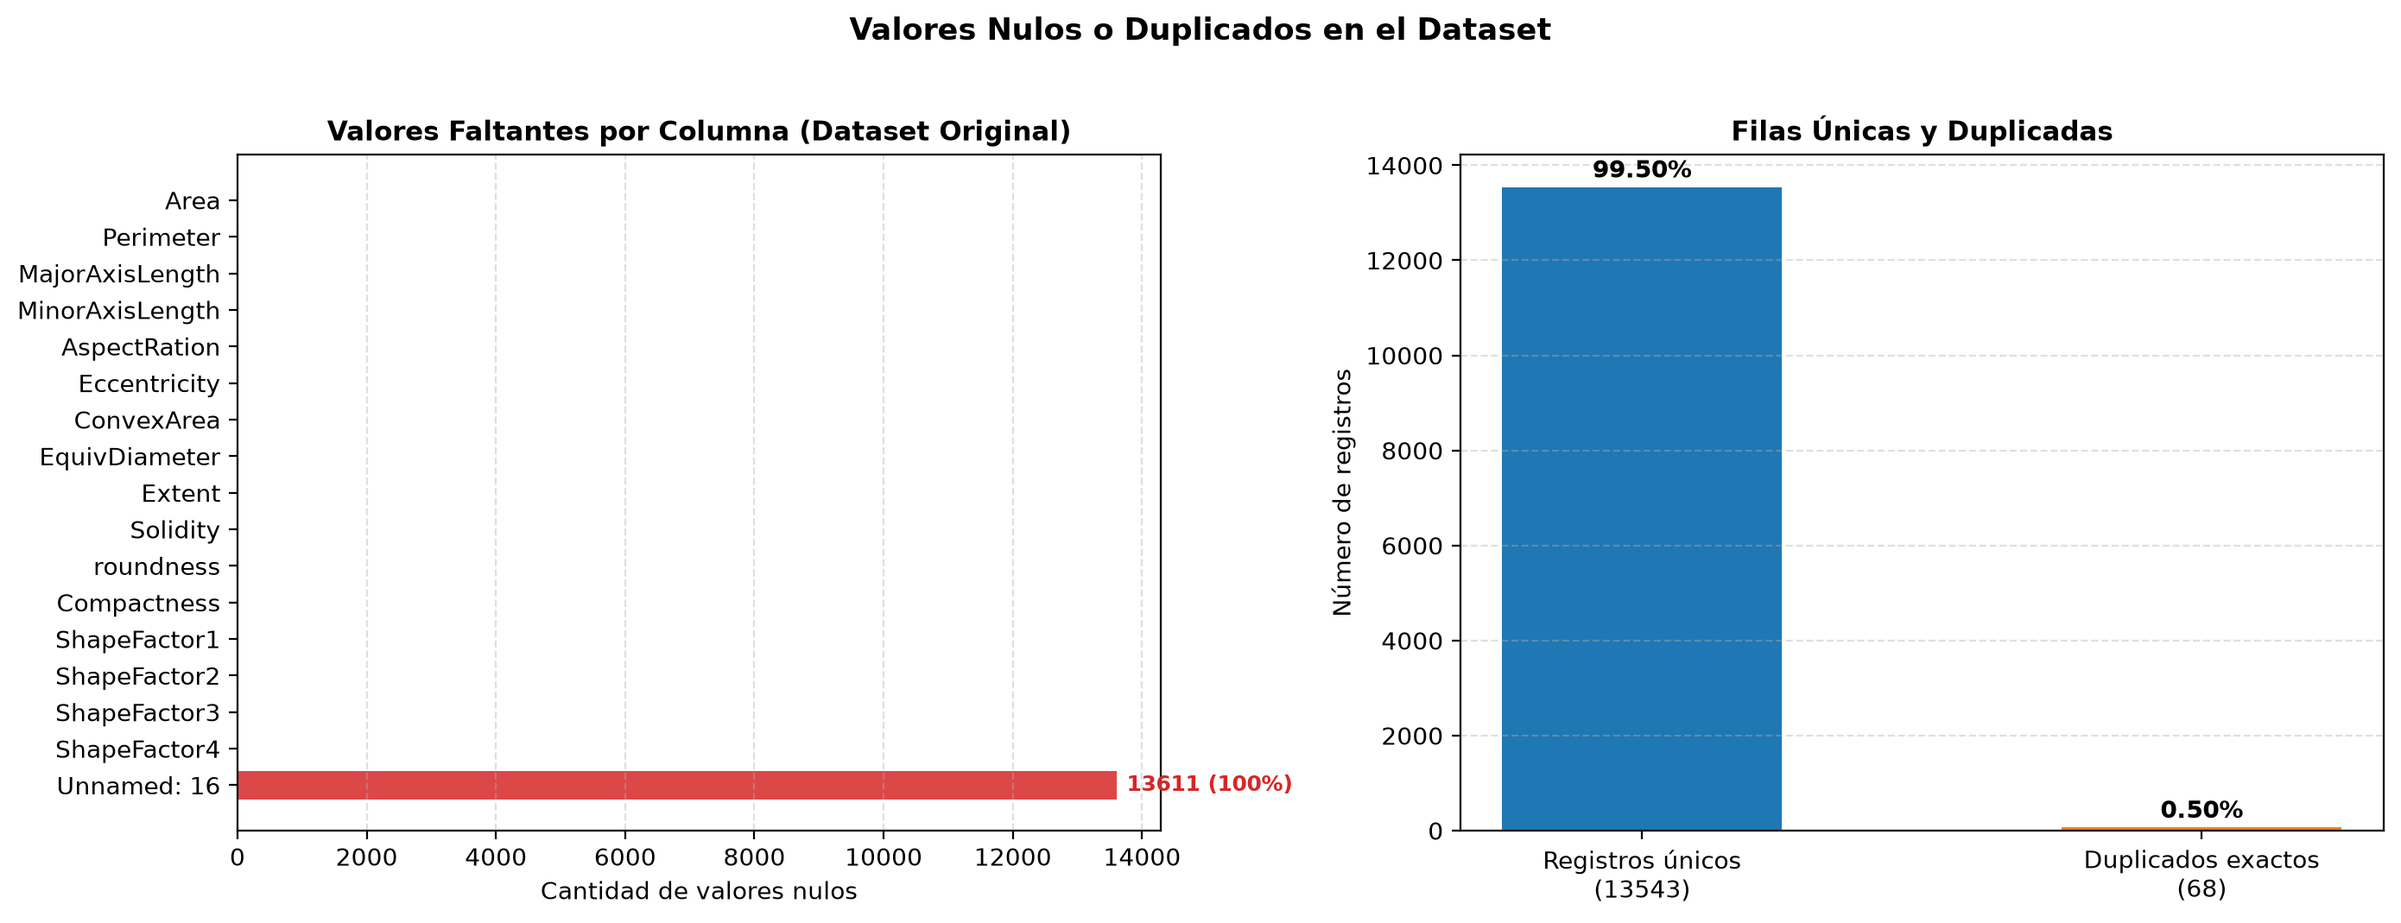
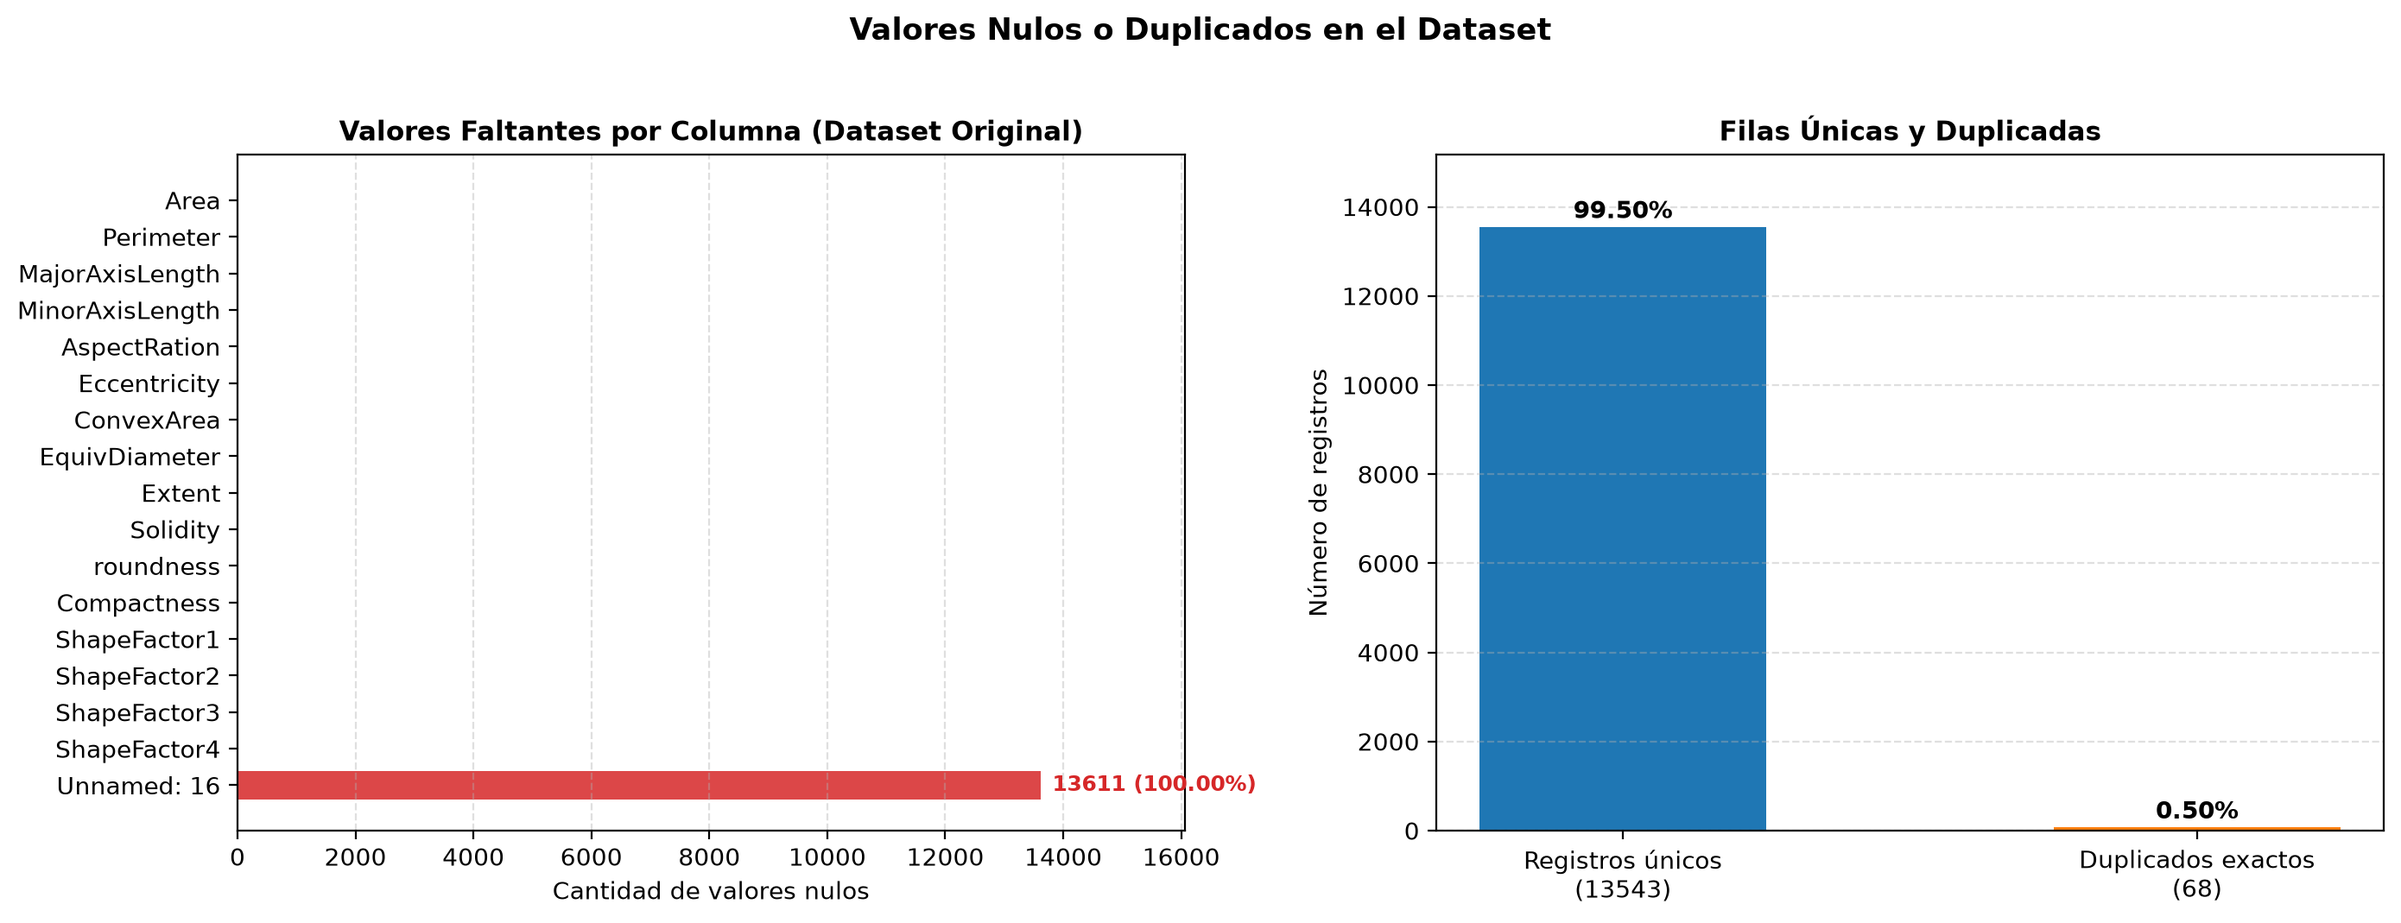
docs: actualizar RESUMEN_ANALISIS.md y limpiar analisis_datos.py

diff --git a/ANALISIS/analisis_datos.py b/ANALISIS/analisis_datos.py
@@ -26,46 +26,39 @@ def localizar_dataset(base_dir):
     raise FileNotFoundError("No se encontro el archivo Dataset.csv")
 
 
-def detectar_columnas_vacias(df, ruta_csv):
-    """Detecta dinamicamente columnas 100% vacias y verifica si provienen de una coma final en el CSV."""
-    with open(ruta_csv, "r", encoding="utf-8-sig") as f:
-        primera_linea = f.readline().rstrip("\r\n")
-    tiene_coma_final = primera_linea.endswith(",")
-
-    hallazgos = []
-    total_cols = len(df.columns)
-    for pos, col in enumerate(df.columns, start=1):
-        if df[col].isnull().all():
-            es_por_coma = tiene_coma_final and pos == total_cols and str(col).startswith("Unnamed:")
-            hallazgos.append({"pos": pos, "nombre": col, "por_coma_final": es_por_coma})
-    return hallazgos
-
-
 def graficar_calidad_datos(df_raw, df_valid, base_dir):
     """Grafica valores faltantes por columna y proporcion de registros duplicados."""
     fig, axes = plt.subplots(1, 2, figsize=(14, 5.2))
 
     nulos = df_raw.isnull().sum()
+    total_raw = max(len(df_raw), 1)
+    max_nulos = max(int(nulos.max()), 1)
+    offset_x = max_nulos * 0.015
     colores_nulos = ["#d62728" if v > 0 else "#2ca02c" for v in nulos.values]
     axes[0].barh(nulos.index, nulos.values, color=colores_nulos, alpha=0.85)
     axes[0].set_title("Valores Faltantes por Columna (Dataset Original)", fontsize=11, fontweight="bold")
     axes[0].set_xlabel("Cantidad de valores nulos")
+    axes[0].set_xlim(0, max_nulos * 1.18)
     axes[0].invert_yaxis()
     axes[0].grid(True, axis="x", linestyle="--", alpha=0.4)
     for i, v in enumerate(nulos.values):
         if v > 0:
-            pct = (v / len(df_raw)) * 100.0
-            axes[0].text(v + 150, i, f"{v} ({pct:.0f}%)", va="center", fontsize=9, fontweight="bold", color="#d62728")
+            pct = (v / total_raw) * 100.0
+            axes[0].text(v + offset_x, i, f"{v} ({pct:.2f}%)", va="center", fontsize=9, fontweight="bold", color="#d62728")
 
     duplicados = int(df_valid.duplicated().sum())
     unicos = len(df_valid) - duplicados
+    total_valid = max(len(df_valid), 1)
+    max_y = max(unicos, duplicados, 1)
+    offset_y = max_y * 0.015
     etiquetas = [f"Registros únicos\n({unicos})", f"Duplicados exactos\n({duplicados})"]
     axes[1].bar(etiquetas, [unicos, duplicados], color=["#1f77b4", "#ff7f0e"], width=0.5)
     axes[1].set_title("Filas Únicas y Duplicadas", fontsize=11, fontweight="bold")
     axes[1].set_ylabel("Número de registros")
+    axes[1].set_ylim(0, max_y * 1.12)
     axes[1].grid(True, axis="y", linestyle="--", alpha=0.4)
-    axes[1].text(0, unicos + 200, f"{unicos / len(df_valid) * 100:.2f}%", ha="center", fontweight="bold")
-    axes[1].text(1, duplicados + 200, f"{duplicados / len(df_valid) * 100:.2f}%", ha="center", fontweight="bold")
+    axes[1].text(0, unicos + offset_y, f"{unicos / total_valid * 100:.2f}%", ha="center", fontweight="bold")
+    axes[1].text(1, duplicados + offset_y, f"{duplicados / total_valid * 100:.2f}%", ha="center", fontweight="bold")
 
     plt.suptitle("Valores Nulos o Duplicados en el Dataset", fontsize=12.5, fontweight="bold", y=1.02)
     plt.tight_layout()
@@ -85,13 +78,16 @@ def formatear_valor(val):
 
 
 def graficar_histogramas(df, base_dir):
-    """Grafica histogramas de las 16 variables en su escala original mostrando media, mediana, minimo y maximo."""
+    """Grafica histogramas de las variables numericas en su escala original mostrando media, mediana, minimo y maximo."""
     cols = df.columns.tolist()
-    fig, axes = plt.subplots(4, 4, figsize=(18, 14))
-    axes = axes.flatten()
+    n_vars = len(cols)
+    n_cols = 4
+    n_rows = int(np.ceil(n_vars / n_cols))
+    fig, axes = plt.subplots(n_rows, n_cols, figsize=(18, 3.5 * n_rows))
+    axes = np.atleast_1d(axes).flatten()
 
     for idx, col in enumerate(cols):
-        serie = df[col]
+        serie = df[col].dropna()
         media = serie.mean()
         mediana = serie.median()
         minimo = serie.min()
@@ -118,13 +114,18 @@ def graficar_histogramas(df, base_dir):
         axes[idx].set_xlabel(f"{col} (valor)", fontsize=9)
         axes[idx].set_ylabel("Frecuencia (n.º de granos)", fontsize=9)
         margen = (maximo - minimo) * 0.04
+        if margen == 0:
+            margen = 0.5
         axes[idx].set_xlim(minimo - margen, maximo + margen)
         axes[idx].grid(True, linestyle="--", alpha=0.35)
         axes[idx].tick_params(labelsize=8)
         axes[idx].legend(loc="best", fontsize=7.5, framealpha=0.92, edgecolor="#cccccc", handlelength=1.8)
 
+    for j in range(n_vars, len(axes)):
+        axes[j].set_visible(False)
+
     plt.suptitle(
-        "Histogramas de las 16 Variables (Media, Mediana, Mínimo y Máximo)",
+        f"Histogramas de las {n_vars} Variables (Media, Mediana, Mínimo y Máximo)",
         fontsize=13.5,
         fontweight="bold",
         y=1.01,
@@ -155,7 +156,7 @@ def graficar_matriz_correlacion(df, base_dir):
             ax.text(j, i, f"{val:.4f}", ha="center", va="center", color=color_txt, fontsize=6.2)
 
     fig.colorbar(im, ax=ax, fraction=0.046, pad=0.04, label="Correlación de Pearson (r)")
-    ax.set_title("Matriz de Correlación de Pearson entre las 16 Variables Originales", fontsize=12, fontweight="bold", pad=12)
+    ax.set_title(f"Matriz de Correlación de Pearson entre las {len(cols)} Variables", fontsize=12, fontweight="bold", pad=12)
     plt.tight_layout()
     ruta = os.path.join(base_dir, "3_matriz_correlacion.png")
     plt.savefig(ruta, dpi=200, bbox_inches="tight")
@@ -164,7 +165,7 @@ def graficar_matriz_correlacion(df, base_dir):
 
 
 def graficar_dispersion_original(df, base_dir):
-    """Grafica dos conjuntos de diagramas de dispersion en escala original para explorar grupos y anomalias."""
+    """Grafica diagramas de dispersion en escala original para explorar grupos y anomalias."""
     pares_geometria = [
         ("Area", "Perimeter", "Tamaño y Contorno (Area vs Perimeter)"),
         ("MajorAxisLength", "MinorAxisLength", "Ejes Geométricos (Major vs Minor Axis)"),
@@ -173,15 +174,29 @@ def graficar_dispersion_original(df, base_dir):
         ("ShapeFactor1", "ShapeFactor2", "Factores de Forma (ShapeFactor1 vs ShapeFactor2)"),
         ("Solidity", "roundness", "Regularidad del Grano (Solidity vs roundness)"),
     ]
+    pares_validos = [(cx, cy, t) for cx, cy, t in pares_geometria if cx in df.columns and cy in df.columns]
+    if not pares_validos and len(df.columns) >= 2:
+        cols_disp = df.columns.tolist()
+        pares_validos = [
+            (cols_disp[i], cols_disp[i + 1], f"{cols_disp[i]} vs {cols_disp[i + 1]}")
+            for i in range(0, min(len(cols_disp) - 1, 12), 2)
+        ]
 
-    fig1, axes1 = plt.subplots(2, 3, figsize=(18, 10.5))
-    axes1 = axes1.flatten()
-    for idx, (col_x, col_y, titulo) in enumerate(pares_geometria):
+    n_pares = len(pares_validos)
+    n_cols = 3
+    n_rows = max(int(np.ceil(n_pares / n_cols)), 1)
+    fig1, axes1 = plt.subplots(n_rows, n_cols, figsize=(18, 5.25 * n_rows))
+    axes1 = np.atleast_1d(axes1).flatten()
+    for idx, (col_x, col_y, titulo) in enumerate(pares_validos):
+        r = df[col_x].corr(df[col_y])
         axes1[idx].scatter(df[col_x], df[col_y], s=8, alpha=0.35, color="#1f77b4", edgecolors="none")
-        axes1[idx].set_title(titulo, fontsize=10.5, fontweight="bold")
+        axes1[idx].set_title(f"{titulo} (r = {r:.4f})", fontsize=10.5, fontweight="bold")
         axes1[idx].set_xlabel(col_x, fontsize=9.5)
         axes1[idx].set_ylabel(col_y, fontsize=9.5)
         axes1[idx].grid(True, linestyle="--", alpha=0.4)
+
+    for j in range(n_pares, len(axes1)):
+        axes1[j].set_visible(False)
 
     plt.suptitle(
         "Diagramas de Dispersión: Tamaño, Forma y Regularidad",
@@ -198,11 +213,12 @@ def graficar_dispersion_original(df, base_dir):
 
 def graficar_pca_densidad(df, base_dir):
     """
-    Proyecta las 16 variables a 2D con PCA sin colores de clase:
+    Proyecta las variables numericas a 2D con PCA sin colores de clase:
     Panel izquierdo: dispersion monocroma con alpha bajo para ver la forma de la nube.
     Panel derecho: mapa de densidad hexbin en escala de grises para ver donde se acumulan los puntos.
     """
-    X_norm = StandardScaler().fit_transform(df)
+    X_clean = df.dropna()
+    X_norm = StandardScaler().fit_transform(X_clean)
     pca = PCA(n_components=2, random_state=42)
     X_pca = pca.fit_transform(X_norm)
     var_pc1 = pca.explained_variance_ratio_[0] * 100.0
@@ -244,15 +260,12 @@ def main():
 
     print("ANALISIS EXPLORATORIO DEL DATASET ORIGINAL (SIN MODIFICAR DATOS)\n")
 
-    # 1. Carga original y deteccion dinamica de columnas vacias
+    # 1. Carga original y revision de columnas/nulos
     df_raw = pd.read_csv(ruta_csv)
     print(f"[1] Dimensiones originales: {df_raw.shape[0]} filas x {df_raw.shape[1]} columnas.")
-    hallazgos_vacias = detectar_columnas_vacias(df_raw, ruta_csv)
-    for h in hallazgos_vacias:
-        if h["por_coma_final"]:
-            print(f"    Aviso: Se detecto una coma al final del encabezado que genera la columna {h['pos']} ({h['nombre']}) completamente vacia; se eliminara en el preprocesamiento.")
-        else:
-            print(f"    Aviso: Se detecto la columna {h['pos']} ({h['nombre']}) completamente vacia; se eliminara en el preprocesamiento.")
+    cols_vacias = [col for col in df_raw.columns if df_raw[col].isnull().all()]
+    if cols_vacias:
+        print(f"    Aviso: Columnas 100% vacias detectadas: {', '.join(cols_vacias)} (se ignoraran en calculos y se eliminaran en el preprocesamiento).")
     print("    Tipos de datos detectados:")
     for col, dtype in df_raw.dtypes.items():
         nulos = int(df_raw[col].isnull().sum())
@@ -261,27 +274,38 @@ def main():
     # Separar vista solo con columnas no vacias para analizar estadisticas (sin alterar el archivo original)
     df_valid = df_raw.dropna(axis=1, how="all")
     num_duplicados = int(df_valid.duplicated().sum())
-    print(f"\n[2] Calidad de registros (sobre las {df_valid.shape[1]} columnas validas):")
+    print(f"\n[2] Calidad de registros (sobre las {df_valid.shape[1]} columnas no vacias):")
     print(f"    Registros totales:   {len(df_valid)}")
     print(f"    Registros unicos:    {len(df_valid) - num_duplicados}")
     print(f"    Duplicados exactos:  {num_duplicados}")
 
+    df_num = df_valid.select_dtypes(include=[np.number])
+    cols_no_num = [col for col in df_valid.columns if col not in df_num.columns]
+    if cols_no_num:
+        print(f"    Columnas no numericas excluidas del analisis estadistico: {', '.join(cols_no_num)}")
+
     # 3. Estadisticas descriptivas en escala original
     print("\n[3] Estadisticas descriptivas en escala original:")
     resumen = pd.DataFrame({
-        "Min": df_valid.min(),
-        "Mediana": df_valid.median(),
-        "Media": df_valid.mean(),
-        "Max": df_valid.max(),
-        "Std": df_valid.std(),
-        "Varianza": df_valid.var(),
-        "Extremos_|Z|>3": ((df_valid - df_valid.mean()).abs() > 3 * df_valid.std()).sum(),
+        "Min": df_num.min(),
+        "Mediana": df_num.median(),
+        "Media": df_num.mean(),
+        "Max": df_num.max(),
+        "Std": df_num.std(),
+        "Varianza": df_num.var(),
+        "Extremos_|Z|>3": ((df_num - df_num.mean()).abs() > 3 * df_num.std()).sum(),
     })
     print(resumen.round(4).to_string())
 
+    cols_var_cero = df_num.columns[df_num.var() == 0].tolist()
+    if cols_var_cero:
+        print(f"    Aviso: Variables con varianza cero: {', '.join(cols_var_cero)}")
+    else:
+        print("    Verificacion de varianza: ninguna variable tiene varianza cero.")
+
     # 4. Pares con correlacion muy alta (|r| > 0.95)
     print("\n[4] Pares de variables con correlacion lineal muy alta (|r| > 0.95):")
-    corr = df_valid.corr()
+    corr = df_num.corr()
     cols = corr.columns.tolist()
     for i in range(len(cols)):
         for j in range(i + 1, len(cols)):
@@ -293,10 +317,10 @@ def main():
     print("\n[5] Generando graficas de analisis exploratorio:")
     rutas = [
         graficar_calidad_datos(df_raw, df_valid, base_dir),
-        graficar_histogramas(df_valid, base_dir),
-        graficar_matriz_correlacion(df_valid, base_dir),
-        graficar_dispersion_original(df_valid, base_dir),
-        graficar_pca_densidad(df_valid, base_dir),
+        graficar_histogramas(df_num, base_dir),
+        graficar_matriz_correlacion(df_num, base_dir),
+        graficar_dispersion_original(df_num, base_dir),
+        graficar_pca_densidad(df_num, base_dir),
     ]
     for r in rutas:
         print(f"    Guardada: {r}")

diff --git a/ANALISIS/RESUMEN_ANALISIS.md b/ANALISIS/RESUMEN_ANALISIS.md
@@ -1,10 +1,10 @@
 # Análisis Exploratorio del Dataset (`Dataset.csv`)
 
-En esta etapa revisamos el archivo original **sin modificar ni borrar ningún dato**, y sin usar *boxplots*. El objetivo es entender qué contiene el dataset, detectar problemas de calidad y justificar de forma sencilla qué pasos se harán después en el preprocesamiento.
+En esta etapa realizamos una inspección inicial del archivo `Dataset.csv` con el objetivo de entender qué contienen los datos, detectar problemas de calidad y justificar los pasos a seguir en el preprocesamiento.
 
 ---
 
-## Descripción Original del Conjunto de Datos (`Dataset.txt`)
+## Traducción al español de la descripción original (`Dataset.txt`)
 
 - **Nombre del conjunto de datos:** `Dataset`
 - **Resumen:** 13,611 granos. Se obtuvieron un total de 16 características a partir de los granos: 12 dimensiones y 4 formas.
@@ -46,7 +46,7 @@ En esta etapa revisamos el archivo original **sin modificar ni borrar ningún da
 **¿Qué se encontró?**
 - El archivo tiene **`13,611` filas** y **`17` columnas**.
 - Las **`16` variables reales del grano** (`Area` hasta `ShapeFactor4`) están completas (**`0` valores nulos**) y todas son numéricas.
-- Aparece automáticamente una columna extra llamada **`Unnamed: 16`** con **`13,611` valores nulos (`100%` vacía)** por una coma al final de cada línea del CSV (es el lugar donde iba la clase). Esto confirma que el problema es de **Aprendizaje No Supervisado**.
+- Aparece automáticamente una columna extra llamada **`Unnamed: 16`** con **`13,611` valores nulos (`100%` vacía)** generada por una coma al final de cada línea en el archivo CSV.
 - Hay **`68` filas duplicadas exactas (`0.50%`)** y **`13,543` filas únicas (`99.50%`)**.
 
 ---
@@ -90,6 +90,12 @@ En esta etapa revisamos el archivo original **sin modificar ni borrar ningún da
 
 **¿Para qué sirve esta gráfica?** Para cruzar pares de variables en 2D y ver si los granos forman grupos separados o si hay puntos sueltos raros (posible ruido). Se eligieron pares que aportan información distinta en lugar de pares redundantes.
 
+**¿Qué significa el valor de "$r$" en el título de cada gráfica?**
+La letra **`r`** es el **coeficiente de correlación lineal de Pearson**, un número entre `-1.0` y `+1.0` que mide la relación entre las dos variables:
+- **Si $r$ es cercana a `+1`** (como en *Area vs Perimeter*, donde $r = 0.9667$): ambas variables aumentan juntas de forma proporcional y los puntos se alinean en una diagonal alargada.
+- **Si $r$ es moderada o baja** (como en *ShapeFactor1 vs ShapeFactor2*, donde $r = 0.4692$): las variables no dependen rígidamente una de la otra. Esto es muy útil porque **"abre" la nube de puntos en el plano**, permitiendo apreciar la separación real entre distintos tipos de granos, islas y vacíos que quedarían ocultos si solo graficáramos variables casi idénticas.
+- **Si $r$ fuera negativa** (cercana a `-1`): significaría que al aumentar una variable, la otra disminuye.
+
 **¿Qué se encontró?**
 - **`Area vs Perimeter` y `MajorAxisLength vs MinorAxisLength`:** Separan claramente la nube principal de granos pequeños/medianos del grupo de granos muy grandes, con algunos puntos sueltos entre ambos.
 - **`Area vs Compactness` y `Area vs roundness`:** Dejan ver varios grupos densos naturales al combinar tamaño con forma.
@@ -98,19 +104,26 @@ En esta etapa revisamos el archivo original **sin modificar ni borrar ningún da
 
 ---
 
-## 5. Proyección PCA 2D sin Etiquetas: Forma de la Nube y Densidad (`6_pca_2d_densidad.png`)
+## 5. Proyección PCA 2D: Forma de la Nube y Densidad (`6_pca_2d_densidad.png`)
 
-![Proyección PCA 2D sin etiquetas con alpha bajo y hexbin](6_pca_2d_densidad.png)
+![Proyección PCA 2D con alpha bajo y hexbin](6_pca_2d_densidad.png)
 
-**¿Para qué sirve esta gráfica?** Como no podemos dibujar 16 dimensiones a la vez, se usa **PCA solo como cámara visual** para proyectar las 16 variables a 2 ejes (`PC1 = 55.47%` y `PC2 = 26.43%`, conservando el **`81.90%`** de la información) sin usar colores de clase. El dataset **no se reduce**: esta proyección es únicamente para mirar la nube completa.
+### ¿Por qué se hizo esta proyección? (El problema de las 16 dimensiones)
+Cada grano tiene **16 características numéricas**. En una pantalla solo podemos ver gráficas en dos dimensiones (ejes X e Y), y si graficamos pares de variables individuales (como en los diagramas de dispersión anteriores), siempre estamos ignorando las otras 14 variables al mismo tiempo.
 
-- **Panel izquierdo (Alpha bajo):** Cada punto es casi transparente; donde se ve más oscuro es donde se enciman más granos. Muestra la **forma de la nube**.
-- **Panel derecho (Hexbin):** Cuenta cuántos granos caen en cada hexágono. Muestra **dónde hay mayor densidad**.
+Para solucionar esto se utilizó **PCA (Análisis de Componentes Principales)**:
+- Funciona como una **"cámara fotográfica" matemática**: busca la mejor perspectiva para proyectar las 16 variables en solo dos ejes principales (`PC1` y `PC2`).
+- A pesar de simplificar la vista a dos ejes, conserva **más del 81.9% de toda la información y variabilidad del dataset** (`PC1 = 55.47%` y `PC2 = 26.43%`).
+- **Aclaración importante:** El dataset **no se redujo** ni se eliminaron variables. Esta proyección se generó **únicamente como herramienta visual** para observar la estructura completa de los datos antes de pasar a la etapa de preprocesamiento, donde DBSCAN operará sobre las 16 dimensiones completas.
 
-**¿Qué se encontró?**
-1. **Formas irregulares y distintas densidades:** La nube no está hecha de bolitas redondas ni parejas; hay zonas alargadas y grupos más densos que otros (justo el tipo de datos donde *K-means* falla y donde conviene **DBSCAN**, `9 Clustering.pdf`, Diap. 22).
-2. **Zonas donde se acumulan los puntos:** Se distinguen 4 núcleos densos en la nube principal (el más oscuro abajo-izquierda, uno alargado arriba-izquierda y dos a la derecha) más **una isla separada arriba a la derecha** que es menos densa (los granos muy grandes).
-3. **Puntos sueltos en los bordes (gris muy claro):** Alrededor de las nubes aparecen puntos aislados con muy baja densidad (`1` a `2` granos por hexágono), que corresponden al **ruido global** que se filtrará después con DBSCAN.
+### ¿Cómo se interpretan los dos paneles de la gráfica?
+- **Panel izquierdo (Alpha bajo / semitransparencia):** Cada grano se dibuja con una transparencia alta. En las zonas donde se ve gris claro hay pocos datos; donde se observa completamente negro u oscuro es porque hay miles de granos encimados. Permite ver la **silueta y forma geométrica de la nube**.
+- **Panel derecho (Hexbin / mapa de densidad):** Divide la superficie en hexágonos y colorea cada uno según la cantidad de granos que caen dentro (en escala logarítmica). Permite ubicar con precisión **dónde están los núcleos con mayor concentración de granos y dónde hay puntos prácticamente aislados**.
+
+### ¿Qué nos enseñó esta gráfica y qué plan definió para el preprocesamiento?
+1. **Los datos NO forman esferas regulares:** La nube presenta curvaturas, ramificaciones y densidades muy distintas entre regiones. Esto descarta métodos clásicos que asumen grupos esféricos y de igual tamaño (como *K-means*).
+2. **Existen agrupaciones naturales y una isla separada:** Se observan núcleos densos dentro del bloque principal y, en la parte superior derecha, una isla independiente y menos densa que corresponde a los granos de mayor tamaño.
+3. **Presencia de puntos aislados (Ruido Global):** En las orillas exteriores y en los espacios vacíos entre densidades aparecen puntos flotando en solitario (hexágonos de gris muy tenue con solo 1 o 2 granos). Esto confirma la existencia de **ruido global** y justifica por qué la técnica indicada para la Etapa 1 es **DBSCAN**, el cual agrupa por densidad y separa automáticamente los puntos aislados asignándoles la etiqueta de ruido (`-1`).
 
 ---
 
